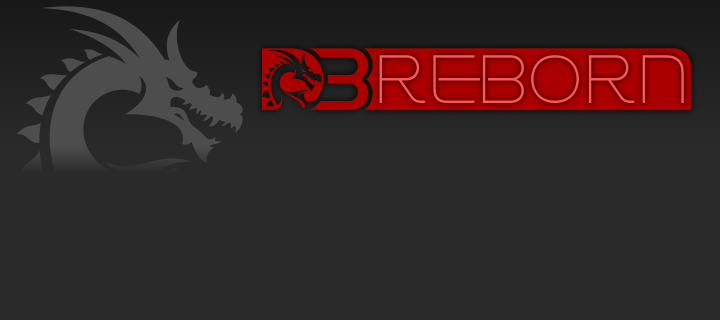
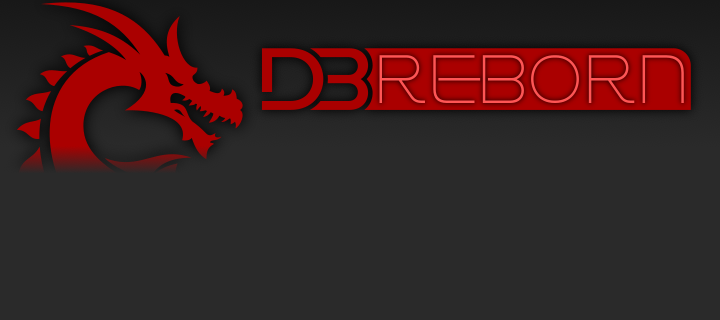
Gui Update

Changed region(s): [[0.0306, 0.0, 0.3361, 0.5312], [0.3667, 0.1562, 0.4583, 0.3438]]

diff --git a/Source/main.py b/Source/main.py
@@ -4,7 +4,7 @@
 import sys, os
 
 from PySide6 import QtWidgets, QtGui, QtMultimedia
-from PySide6.QtGui import QPixmap, QIcon, QTextFormat
+from PySide6.QtGui import QPixmap, QIcon, QTextFormat, QPalette, QColor
 from PySide6.QtWidgets import QApplication, QFileDialog, QLabel, QLineEdit, QMessageBox, QGraphicsTextItem, QTextEdit
 from PySide6.QtUiTools import QUiLoader
 from PySide6.QtCore import QFile, QIODevice, QUrl
@@ -19,6 +19,16 @@ global old_json_file_name
 global new_spinejson
 global spinejson_path
 
+try:
+    from ctypes import windll  # Only exists on Windows.
+    #myapp_id = 'mycompany.myproduct.subproduct.version'
+    myapp_id = 'rfmcodedev.dbreborn.converter.version1'
+
+    windll.shell32.SetCurrentProcessExplicitAppUserModelID(myapp_id)
+except ImportError:
+    pass
+
+
 def exit_app():
     sys.exit()
 
@@ -27,7 +37,7 @@ help_text = """<html>
 <h3 style="font-family:verdana;">DB Reborn - How to Export Animations</h3>
 <pre style="font-family:verdana;">1-Create your Animation in Dragonbones 5.6.2.
 
-2-Export it as Spine Json 3.3 with images in 100% of size in a folder.
+2-Export it as Json 3.3 with images in 100% of size in a folder.
   After export, you will get the YOUR_FILE.json and a folder called
   YOUR_FILE_TEXTURES with of your character images inside.
   Atlas texture won't work, only individual .png sprites.
@@ -55,13 +65,13 @@ help_text = """<html>
     Default Animation.
   - Create an Script to play the animation and see the result.
 
-Note: If your animation has easy in/out curves, the script will try to
+Note: If your animation has easing in/out curves, the script will try to
   convert the curve values. If somehow Defold crashes, check "Force Linear"
-  to turn all ease curve animations to linear ease animations.
+  to turn all easing curve animations to linear.
 
-For more info and tutorials, visit the <a href='https://www.youtube.com/watch?v=uowkgY5dFaI'>Youtube Channel</a> or the
-  <a href='https://www.youtube.com/watch?v=uowkgY5dFaI'>Github Project</a> page.
-Please report any bugs to <a href="mailto:rodrigo.fontanella@gmail.com">e-mail</a>.
+For more info and tutorials, visit the <a href='https://www.youtube.com/@rfmcodedev'>Youtube Channel</a>
+or the <a href='https://github.com/rfm-code-dev/DB-Reborn'>Github Project</a> page.
+Please report any bugs by <a href="mailto:rfm.code.dev@gmail.com">e-mail</a>.
  
 Enjoy!</pre>
 </body>
@@ -112,37 +122,41 @@ class MainWindow(QtWidgets.QMainWindow):
     def __init__(self):
         super().__init__()
         self.app_dir = os.path.dirname(__file__)
-        #print(self.app_dir)
+        print(self.app_dir)
         self.loader = QUiLoader()
-        self.ui_file_name = "db_ui.ui"
+        self.ui_file_name = os.path.join(self.app_dir, "db_ui.ui")
         self.ui_file = QFile(self.ui_file_name)
         self.window = self.loader.load(self.ui_file)
         self.window.setWindowTitle("DB REBORN 1.0")
         self.spine_version = "4.2.22"
+
+        #Background Window Image
+        self.background = QPixmap(os.path.join(self.app_dir, "images", "background.png"))
+        self.window.background.setPixmap(self.background)
 
         self.input_field = False
         self.output_field = False
 
         # Alert Sound
         self.alert = QSoundEffect()
-        self.alert.setSource(QUrl.fromLocalFile("sounds/blip.wav"))
+        self.alert.setSource(QUrl.fromLocalFile(os.path.join(self.app_dir, "sounds", "blip.wav")))
         self.alert.setVolume(0.5)
 
         # Success Sound
         self.success = QSoundEffect()
-        self.success.setSource(QUrl.fromLocalFile("sounds/success.wav"))
+        self.success.setSource(QUrl.fromLocalFile(os.path.join(self.app_dir, "sounds", "success.wav")))
         self.success.setVolume(0.5)
 
         self.converted = ""
 
-        # Db-Reborn Icon
-        self.window.setWindowIcon(QtGui.QIcon("images/icon.ico"))
+        # Db Reborn Icon
+        #app.setWindowIcon(QtGui.QIcon('images/icon.svg'))
+        self.window.setWindowIcon(QtGui.QIcon(os.path.join(self.app_dir, "images", "icon256x256.png")))
 
-        # Game Axe Creative Logo Icon
-        self.icon_path = "images/db_reborn_symbol.png"
+        # DB Reborn Logo
+        self.icon_path = os.path.join(self.app_dir, "images", "db_reborn_symbol.png")
         self.icon_pixmap = QPixmap(self.icon_path)
-        self.game_axe_icon = QIcon(self.icon_pixmap)
-        self.msg_box = QMessageBox()
+        self.about_box = QMessageBox()
         self.help_box =  QMessageBox()
 
         # Access widgets in the UI
@@ -172,12 +186,15 @@ class MainWindow(QtWidgets.QMainWindow):
         self.ui_file.close()
         self.window.show()
 
+        # Setting up all Message Boxes to the same color layout
+        QMessageBox.setStyleSheet(self, "background-color: rgb(42, 42, 42); color: rgb(255, 255, 255)")
+
         if not self:
-            print(self.loader.errorString())
+            #print(self.loader.errorString())
             sys.exit(-1)
 
         if not self.ui_file.open(QIODevice.ReadOnly):
-            print(f"Cannot open {self.ui_file_name}: {self.ui_file.errorString()}")
+            #print(f"Cannot open {self.ui_file_name}: {self.ui_file.errorString()}")
             sys.exit(-1)
 
         sys.exit(app.exec())
@@ -217,6 +234,7 @@ class MainWindow(QtWidgets.QMainWindow):
                 QMessageBox.warning(self, "Check Json Failed", check_not_passed_text,
                                         buttons=QMessageBox.StandardButton.Ok)
                 self.input_field = False
+
         else:
             self.window.json_path.setText(self.default_input_text)
             self.input_field = False
@@ -240,7 +258,6 @@ class MainWindow(QtWidgets.QMainWindow):
 
             QMessageBox.warning(self, "Please Select Json File", select_json_file_first,
                                 buttons=QMessageBox.StandardButton.Ok)
-
 
     def convert(self):
         global easing_type
@@ -279,6 +296,7 @@ class MainWindow(QtWidgets.QMainWindow):
             # print(my_instance.file_converted)
             QMessageBox.information(self, "Conversion Completed", congratulation_text,
                                     buttons=QMessageBox.StandardButton.Ok)
+            QMessageBox.setStyleSheet(self, "background-color: rgb(42, 42, 42); color: rgb(255, 255, 255)")
 
         return self.converted
 
@@ -287,28 +305,22 @@ class MainWindow(QtWidgets.QMainWindow):
         #QMessageBox.about(self,"DB Reborn Help", help_text)
         self.help_box.setWindowTitle("DB Reborn Help")
         self.help_box.setText(help_text)
-        #self.help_box.setText("<a href = 'https://www.youtube.com/watch?v=uowkgY5dFaI' > YouTube DB Reborn Tutorial < / a >")
-        #self.help_box.setText("<p>This is rich text.</p>")
-
+        self.help_box.setStyleSheet("background-color: rgb(42, 42, 42); color: rgb(255, 255, 255)")
         self.help_box.setStandardButtons(QMessageBox.Ok)
         self.help_box.exec()
 
     def about(self):
-        # self.icon_pixmap = QPixmap(self.icon_path)
-        # self.game_axe_icon = QIcon(self.icon_pixmap)
-        #self.msg_box.setIcon(QMessageBox.)
-        self.msg_box.setIconPixmap(self.icon_pixmap)
-        self.msg_box.setWindowTitle("About DB-Reborn")
-        self.msg_box.setText(about_text)
-        self.msg_box.setStandardButtons(QMessageBox.Ok)
-        self.msg_box.exec()
-        #QMessageBox.about(self, "About DB-Reborn", about_text)
+        self.about_box.setIconPixmap(self.icon_pixmap)
+        self.about_box.setWindowTitle("About DB-Reborn")
+        self.about_box.setStyleSheet("background-color: rgb(42, 42, 42); color: rgb(255, 255, 255)")
+        self.about_box.setText(about_text)
+        self.about_box.setStandardButtons(QMessageBox.Ok)
+        self.about_box.exec()
 
 
 if __name__ == "__main__":
     # The default of easing_type is 'curve'
     easing_type = 'curve'
     app = QtWidgets.QApplication(sys.argv)
-    #app.setWindowIcon(QtGui.QIcon('icon.ico'))
     w = MainWindow()
 
